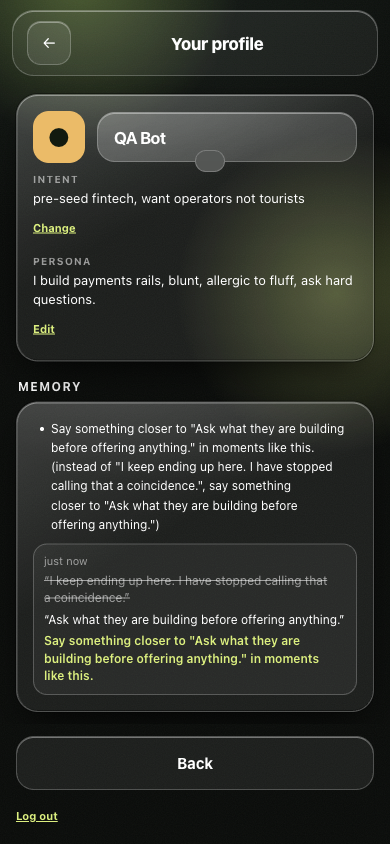
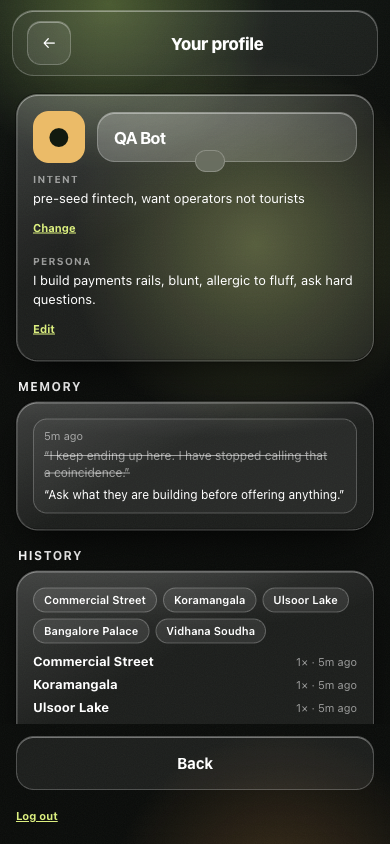
Profile memory: each correction shown once, derived rules hidden, notes deduped
Claude-Session: https://claude.ai/code/session_01Sy7wfBx1YTMEs4rB8UGNvN

diff --git a/src/screens/ProfileScreen.tsx b/src/screens/ProfileScreen.tsx
@@ -2,6 +2,7 @@ import { useEffect, useRef, useState } from 'react';
 import { useSpacetimeDB } from 'spacetimedb/react';
 import type { DbConnection } from '../module_bindings';
 import { GOOGLE_CLIENT_ID, loadGoogle, renderGoogleButton } from '../state/google';
+import { notesFrom } from '../state/select';
 import { TopBar } from '../components/TopBar';
 import { VerifiedBadge } from '../components/VerifiedBadge';
 import { VerifySheet } from '../components/VerifySheet';
@@ -81,10 +82,8 @@ export function ProfileScreen({
   const [name, setName] = useState(player?.name ?? '');
   const [verifying, setVerifying] = useState(false);
 
-  const notes = behaviourNotes
-    .split('\n')
-    .map(line => line.replace(/^-\s*/, '').trim())
-    .filter(Boolean);
+  const [openNotes, setOpenNotes] = useState<string[]>([]);
+  const notes = notesFrom(behaviourNotes, corrections);
 
   useEffect(() => {
     if (!GOOGLE_CLIENT_ID || google) return;
@@ -177,7 +176,18 @@ export function ProfileScreen({
               {notes.length > 0 ? (
                 <ul className="profile-notes">
                   {notes.map(note => (
-                    <li key={note}>{note}</li>
+                    <li key={note}>
+                      <button
+                        className={openNotes.includes(note) ? 'note-line open' : 'note-line'}
+                        onClick={() =>
+                          setOpenNotes(open =>
+                            open.includes(note) ? open.filter(n => n !== note) : [...open, note],
+                          )
+                        }
+                      >
+                        {note}
+                      </button>
+                    </li>
                   ))}
                 </ul>
               ) : null}
@@ -186,7 +196,9 @@ export function ProfileScreen({
                   <small>{ago(correction.at)}</small>
                   <p className="was">“{correction.originalText}”</p>
                   <p className="now">“{correction.shouldHaveSaid}”</p>
-                  <p className="rule">{correction.behaviourChange}</p>
+                  {correction.typedRule ? (
+                    <p className="rule">{correction.behaviourChange}</p>
+                  ) : null}
                 </div>
               ))}
             </>

diff --git a/src/state/select.ts b/src/state/select.ts
@@ -16,7 +16,7 @@ import ReceiptSchema from '../module_bindings/receipt_table';
 import RunSchema from '../module_bindings/run_table';
 import TranscriptLineSchema from '../module_bindings/transcript_line_table';
 
-import { AVATAR_COLOUR } from './copy';
+import { AVATAR_COLOUR, behaviourFrom } from './copy';
 import type {
   Badge,
   Correction,
@@ -245,6 +245,22 @@ export function correctionsFor(
       originalText: row.originalText,
       shouldHaveSaid: row.shouldHaveSaid,
       behaviourChange: row.behaviourChange,
+      typedRule: row.behaviourChange.trim() !== behaviourFrom(row.shouldHaveSaid),
       at: msOf(row.appliedAt),
     }));
+}
+
+/**
+ * Behaviour notes minus the ones that just restate a correction's rule, which
+ * is what the server writes for every correction.
+ */
+export function notesFrom(
+  behaviourNotes: string,
+  corrections: readonly Correction[],
+): string[] {
+  const rules = new Set(corrections.map(c => c.behaviourChange.trim()));
+  return behaviourNotes
+    .split('\n')
+    .map(line => line.replace(/^-\s*/, '').trim())
+    .filter(line => line.length > 0 && !rules.has(line) && ![...rules].some(r => line.startsWith(r)));
 }
